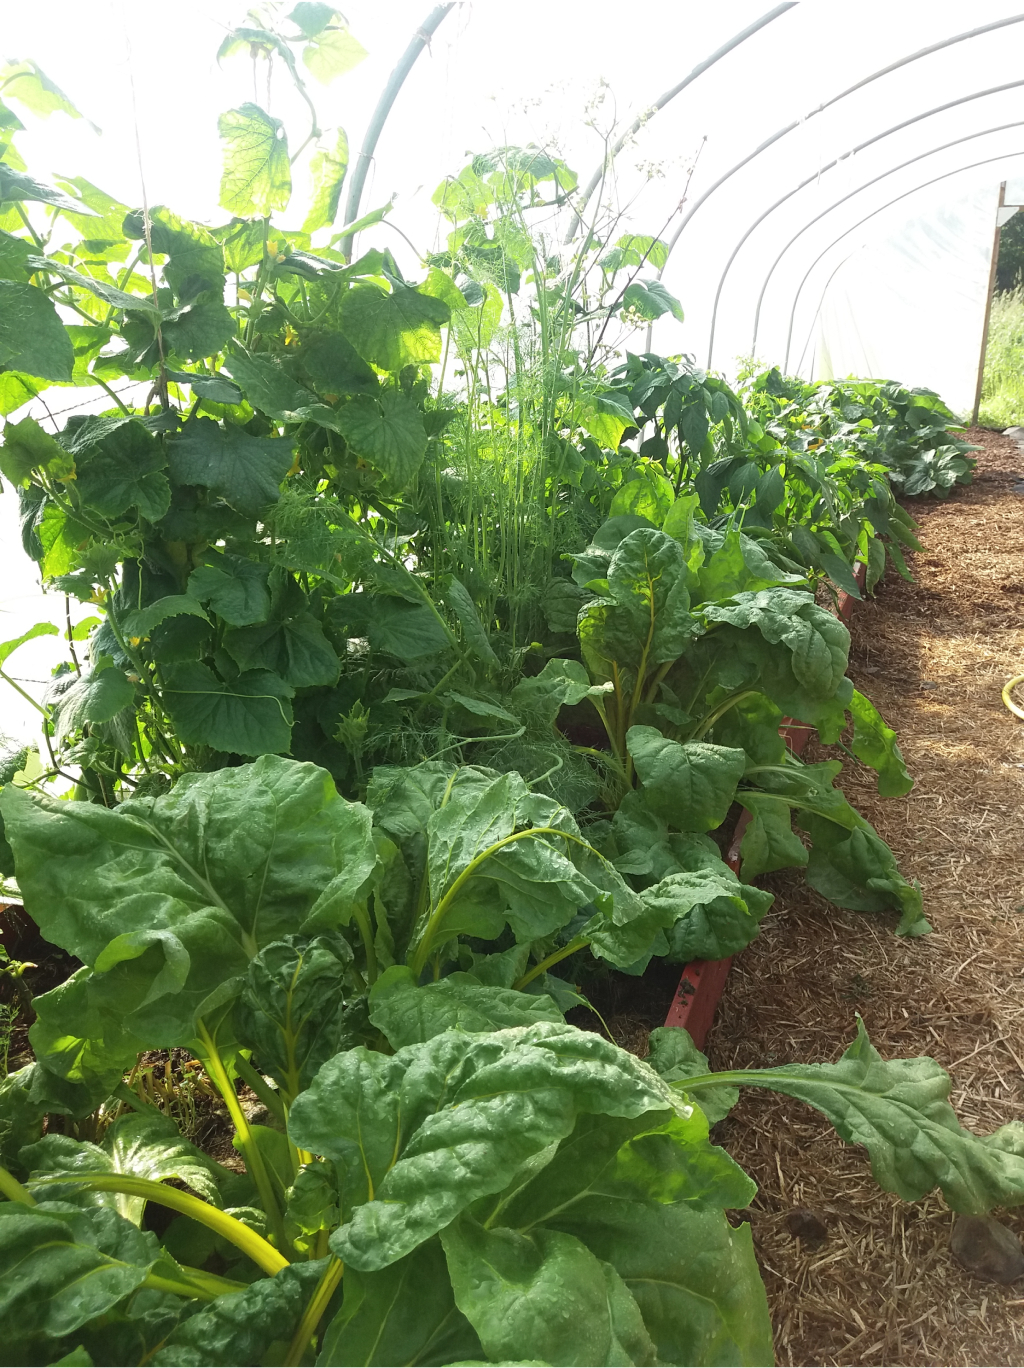
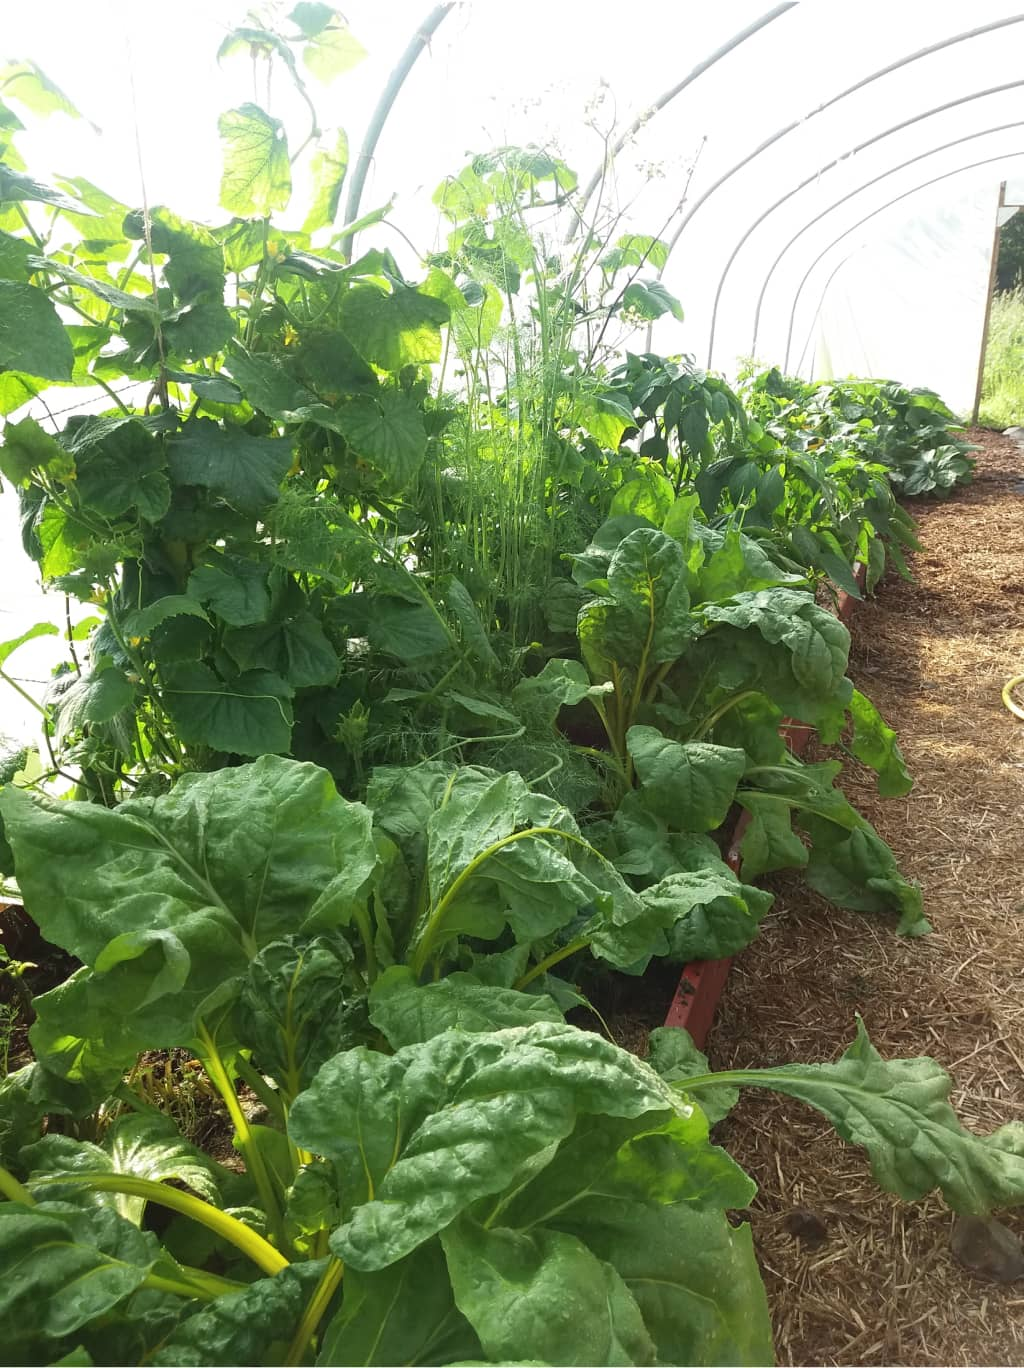
Update gallery and images to more compressed images

diff --git a/_includes/gallery.html b/_includes/gallery.html
@@ -1,11 +1,14 @@
 <div class="masonry">
 	{% for i in (1..3) %}
-   <div class="item item-full"><img src="assets/img/img{{ i }}@320.jpg" srcset="assets/img/img{{ i }}@1024.jpg 1024w, assets/img/img{{ i }}@640.jpg 640w, assets/img/img{{ i }}@320.jpg 320w" /></div>
+		<picture class="item item-full">
+		  <source media="(min-width: 800px)" srcset="assets/img/img{{ i }}@1024.jpg">
+		  <img src="assets/img/img{{ i }}@640.jpg">
+		</picture>
 	{% endfor %}
-	{% for i in (4..10) %}
-   <div class="item"><img src="assets/img/img{{ i }}@320.jpg" srcset="assets/img/img{{ i }}@1024.jpg 1024w, assets/img/img{{ i }}@640.jpg 640w, assets/img/img{{ i }}@320.jpg 320w" /></div>
-	{% endfor %}
-	{% for i in (12..14) %}
-   <div class="item"><img src="assets/img/img{{ i }}@320.jpg" srcset="assets/img/img{{ i }}@1024.jpg 1024w, assets/img/img{{ i }}@640.jpg 640w, assets/img/img{{ i }}@320.jpg 320w" /></div>
+	{% for i in (4..13) %}
+		<picture class="item">
+		  <source media="(min-width: 1025px)" srcset="assets/img/img{{ i }}@1024.jpg">
+		  <img src="assets/img/img{{ i }}@640.jpg">
+		</picture>
 	{% endfor %}
 </div>

diff --git a/assets/css/style.css b/assets/css/style.css
@@ -203,19 +203,11 @@ li {
 	width: 100%;
 }
 
-@media only screen and (min-width: 400px) {
+@media only screen and (min-width: 550px) {
     .masonry {
         -moz-column-count: 2;
         -webkit-column-count: 2;
         column-count: 2;
-    }
-}
-
-@media only screen and (min-width: 700px) {
-    .masonry {
-        -moz-column-count: 3;
-        -webkit-column-count: 3;
-        column-count: 3;
     }
 }
 
